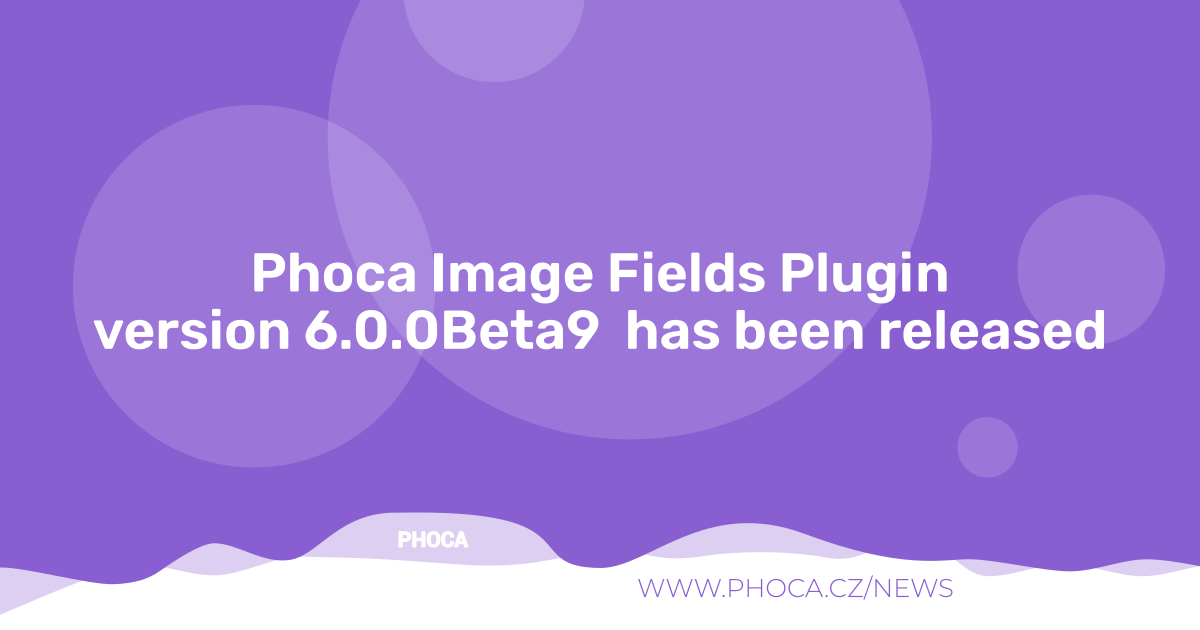
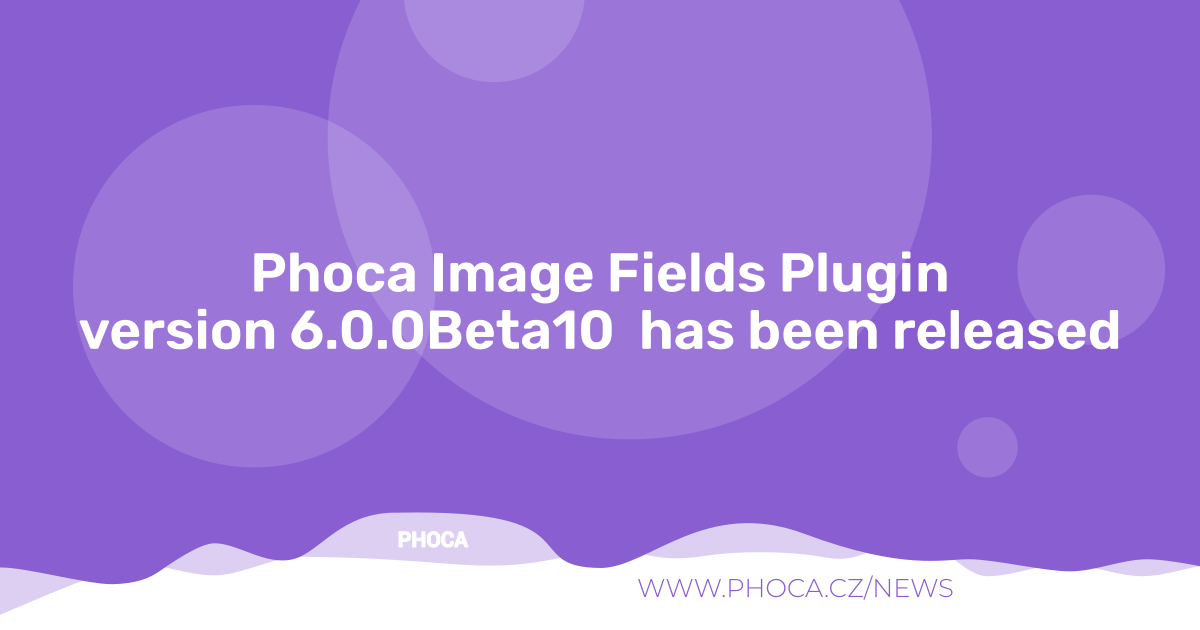
6.0.0Beta10

Changed region(s): [[0.0617, 0.4825, 0.9558, 0.573]]

diff --git a/media/js/backend-uploader.js b/media/js/backend-uploader.js
@@ -266,7 +266,6 @@ class PhocaImageUploader {
         }
 
         const thumbUrl = this.config.uploadPath + '/' + thumbFilename;
-
         let captionHtml = '';
         if (this.config.enableCaption) {
             captionHtml = `

diff --git a/src/Extension/Phocaimage.php b/src/Extension/Phocaimage.php
@@ -26,6 +26,7 @@ use Joomla\Component\Fields\Administrator\Plugin\FieldsPlugin;
 use Joomla\Database\DatabaseAwareTrait;
 use Joomla\Event\EventInterface;
 use Joomla\Event\SubscriberInterface;
+use Joomla\Registry\Registry;
 use Phoca\Plugin\Fields\Phocaimage\Helper\ImageHelper;
 
 // phpcs:disable PSR1.Files.SideEffects
@@ -266,7 +267,7 @@ final class Phocaimage extends FieldsPlugin implements SubscriberInterface
     /**
      * Core gallery rendering logic.
      */
-    private function renderGallery($field, $item)
+   /* private function renderGallery($field, $item)
     {
         // Frontend vs Backend layout
         if ($this->getApplication()->isClient('administrator')) {
@@ -281,6 +282,23 @@ final class Phocaimage extends FieldsPlugin implements SubscriberInterface
 
         // Prepare data for layout
         // The layout expects $field and $item
+        ob_start();
+        include $path;
+        return ob_get_clean();
+    }*/
+
+    private function renderGallery($field, $item)
+    {
+        // Joomla's helper automatically checks:
+        // 1. templates/your_template/html/plg_fields_phocaimage/phocaimage.php
+        // 2. plugins/fields/phocaimage/tmpl/phocaimage.php
+        // override example: templates/phoca_premiere/html/plg_fields_phocaimage/phocaimage.php
+        $path = PluginHelper::getLayoutPath('fields', 'phocaimage', 'phocaimage');
+        if (!$path || !file_exists($path)) {
+            return '';
+        }
+
+        // Prepare data for layout
         ob_start();
         include $path;
         return ob_get_clean();
@@ -611,8 +629,6 @@ final class Phocaimage extends FieldsPlugin implements SubscriberInterface
      */
     public function getUploadPath(int $articleId, int $fieldId): string
     {
-        $folderStructure = $this->params->get('folder_structure', 'article_id');
-
         if ($articleId === 0) {
             // New article - use temp folder with session hash
             $session  = Factory::getApplication()->getSession();
@@ -620,13 +636,9 @@ final class Phocaimage extends FieldsPlugin implements SubscriberInterface
             return $this->getBasePath() . '/temp_' . $tempHash;
         }
 
-        if ($folderStructure === 'year_month') {
-            $created   = $this->getArticleDate($articleId);
-            $yearMonth = date('Y_m', strtotime($created));
-            return $this->getBasePath() . '/' . $yearMonth . '/' . $articleId;
-        }
-
-        return $this->getBasePath() . '/' . $articleId;
+        // Use central folder generation
+        $date = $this->getArticleDate($articleId);
+        return self::getFolder($this->params, $articleId, $date);
     }
 
     /**
@@ -640,15 +652,8 @@ final class Phocaimage extends FieldsPlugin implements SubscriberInterface
      */
     private function getPermanentPath(int $articleId): string
     {
-        $folderStructure = $this->params->get('folder_structure', 'article_id');
-
-        if ($folderStructure === 'year_month') {
-            $created   = $this->getArticleDate($articleId);
-            $yearMonth = date('Y_m', strtotime($created));
-            return $this->getBasePath() . '/' . $yearMonth . '/' . $articleId;
-        }
-
-        return $this->getBasePath() . '/' . $articleId;
+        $date = $this->getArticleDate($articleId);
+        return self::getFolder($this->params, $articleId, $date);
     }
 
     /**
@@ -740,7 +745,7 @@ final class Phocaimage extends FieldsPlugin implements SubscriberInterface
         $permanentPath = str_replace($this->getBasePath() . '/', '', $permanentPath);
 
         $newValue = str_replace($tempPath, $permanentPath, $value);
-
+        
         // Update the value
         $query = $db->getQuery(true)
             ->update($db->quoteName('#__fields_values'))
@@ -765,11 +770,18 @@ final class Phocaimage extends FieldsPlugin implements SubscriberInterface
         $folderStructure = $this->params->get('folder_structure', 'article_id');
         $basePath        = JPATH_ROOT . '/' . $this->getBasePath();
 
-        if ($folderStructure === 'year_month') {
-            // Search for the article folder in all year_month directories
-            $yearMonthDirs = Folder::folders($basePath);
-            foreach ($yearMonthDirs as $dir) {
-                if (preg_match('/^\d{4}_\d{2}$/', $dir)) {
+        if ($folderStructure === 'year' || $folderStructure === 'year_month' || $folderStructure === 'year_month_day') {
+            // Define regex patterns for different structures
+            $pattern = match($folderStructure) {
+                'year'           => '/^\d{4}$/',
+                'year_month'     => '/^\d{4}_\d{2}$/',
+                'year_month_day' => '/^\d{4}_\d{2}_\d{2}$/',
+            };
+
+            // Search for the article folder in all matching directories
+            $dirs = Folder::folders($basePath);
+            foreach ($dirs as $dir) {
+                if (preg_match($pattern, $dir)) {
                     $articlePath = $basePath . '/' . $dir . '/' . $articleId;
                     if (is_dir($articlePath)) {
                         Folder::delete($articlePath);
@@ -782,6 +794,49 @@ final class Phocaimage extends FieldsPlugin implements SubscriberInterface
                 Folder::delete($articlePath);
             }
         }
+    }
+
+    /**
+     * Get the folder path based on configuration.
+     *
+     * @param   Registry     $params     The plugin parameters.
+     * @param   int          $articleId  The article ID.
+     * @param   string|null  $date       The article creation date.
+     *
+     * @return  string
+     *
+     * @since   6.0.0
+     */
+    public static function getFolder(Registry $params, int $articleId, ?string $date = null): string
+    {
+        $folder = trim($params->get('folder', 'phocaimage'), '/ ');
+        $folder = preg_replace('/[^a-zA-Z0-9_\-]/', '', $folder);
+        $folder = Folder::makeSafe($folder);
+
+        $subfolder = trim($params->get('subfolder', ''), '/ ');
+        $subfolder = preg_replace('/[^a-zA-Z0-9_\-]/', '', $subfolder);
+        $subfolder = Folder::makeSafe($subfolder);
+
+        $basePath = 'images/' . $folder;
+
+        if ($subfolder !== '') {
+            $basePath .= '/' . $subfolder;
+        }
+
+        $folderStructure = $params->get('folder_structure', 'article_id');
+        $dateStr         = $date ?: 'now';
+        $timestamp       = strtotime($dateStr);
+
+        if ($timestamp === false) {
+            $timestamp = time();
+        }
+
+        return match ($folderStructure) {
+            'year'           => $basePath . '/' . date('Y', $timestamp) . '/' . $articleId,
+            'year_month'     => $basePath . '/' . date('Y_m', $timestamp) . '/' . $articleId,
+            'year_month_day' => $basePath . '/' . date('Y_m_d', $timestamp) . '/' . $articleId,
+            default          => $basePath . '/' . $articleId,
+        };
     }
 
     /**

diff --git a/src/Field/PhocaimageField.php b/src/Field/PhocaimageField.php
@@ -139,38 +139,32 @@ class PhocaimageField extends FormField
         // Get plugin params robustly
         $plugin    = PluginHelper::getPlugin('fields', 'phocaimage');
         $params    = new Registry($plugin->params ?? '');
-        $folder = trim($params->get('folder', 'phocaimage'), '/ ');
-        $folder = preg_replace('/[^a-zA-Z0-9_\-]/', '', $folder);
-        $folder = Folder::makeSafe($folder);
-        $subfolder = trim($params->get('subfolder', ''), '/ ');
-        $subfolder = preg_replace('/[^a-zA-Z0-9_\-]/', '', $subfolder);
-        $subfolder = Folder::makeSafe($subfolder);
-        $basePath  = 'images/'.$folder;
-
-        if ($subfolder !== '') {
-            $basePath .= '/' . $subfolder;
-        }
-
+        
         if ($articleId === 0) {
+            $folder = trim($params->get('folder', 'phocaimage'), '/ ');
+            $folder = preg_replace('/[^a-zA-Z0-9_\-]/', '', $folder);
+            $folder = Folder::makeSafe($folder);
+            $subfolder = trim($params->get('subfolder', ''), '/ ');
+            $subfolder = preg_replace('/[^a-zA-Z0-9_\-]/', '', $subfolder);
+            $subfolder = Folder::makeSafe($subfolder);
+            $basePath  = 'images/'.$folder;
+    
+            if ($subfolder !== '') {
+                $basePath .= '/' . $subfolder;
+            }
+
             $session  = Factory::getApplication()->getSession();
             $tempHash = substr(md5($session->getId() . $fieldId), 0, 12);
             return $basePath . '/temp_' . $tempHash;
         }
 
-        $folderStructure = $params->get('folder_structure', 'article_id');
+        $db    = Factory::getContainer()->get(\Joomla\Database\DatabaseInterface::class);
+        $query = $db->getQuery(true)
+            ->select($db->quoteName('created'))
+            ->from($db->quoteName('#__content'))
+            ->where($db->quoteName('id') . ' = ' . (int) $articleId);
+        $date = $db->setQuery($query)->loadResult();
 
-        if ($folderStructure === 'year_month') {
-            $db    = Factory::getContainer()->get(\Joomla\Database\DatabaseInterface::class);
-            $query = $db->getQuery(true)
-                ->select($db->quoteName('created'))
-                ->from($db->quoteName('#__content'))
-                ->where($db->quoteName('id') . ' = ' . (int) $articleId);
-            $date = $db->setQuery($query)->loadResult();
-
-            $yearMonth = date('Y_m', strtotime($date ?: 'now'));
-            return $basePath . '/' . $yearMonth . '/' . $articleId;
-        }
-
-        return $basePath . '/' . $articleId;
+        return \Phoca\Plugin\Fields\Phocaimage\Extension\Phocaimage::getFolder($params, $articleId, $date);
     }
 }

diff --git a/tmpl/phocaimage.php b/tmpl/phocaimage.php
@@ -56,6 +56,7 @@ $layoutClass = $layout === 'pi-flex' ? ' pi-flex' : ' pi-grid';
         $thumbM   = $basePath . 'phoca_thumb_m_' . $filename;
         $thumbL   = $basePath . 'phoca_thumb_l_' . $filename; // Used for lightbox if we want
 
+
         // For PhotoSwipe we serve large thumbnail
         $lightboxImage = $thumbL;
 
